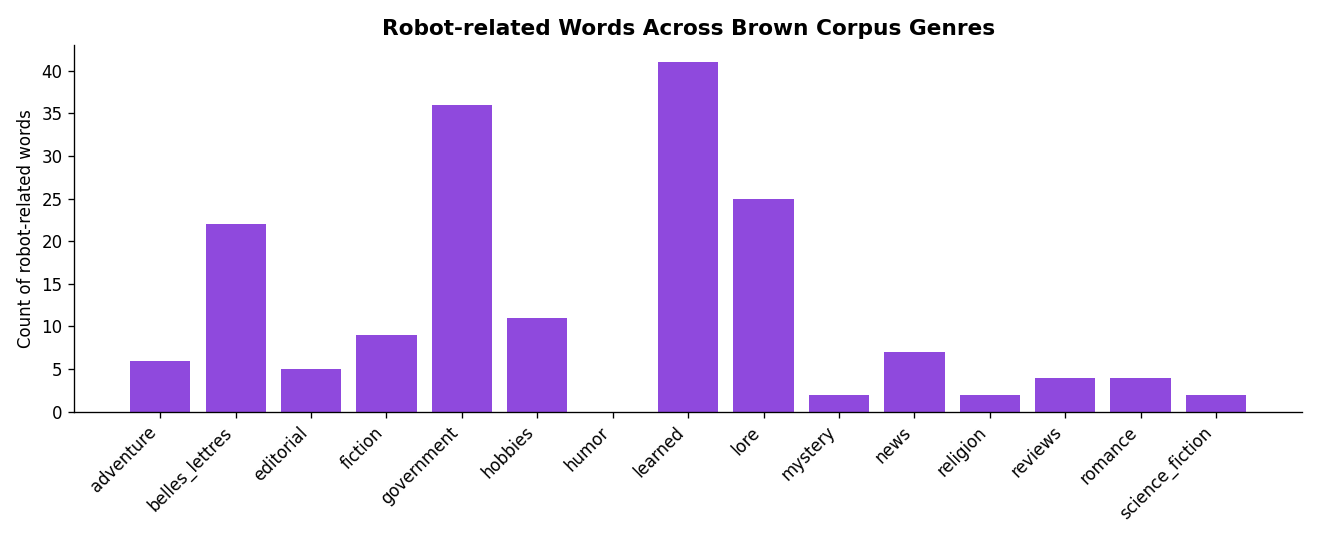
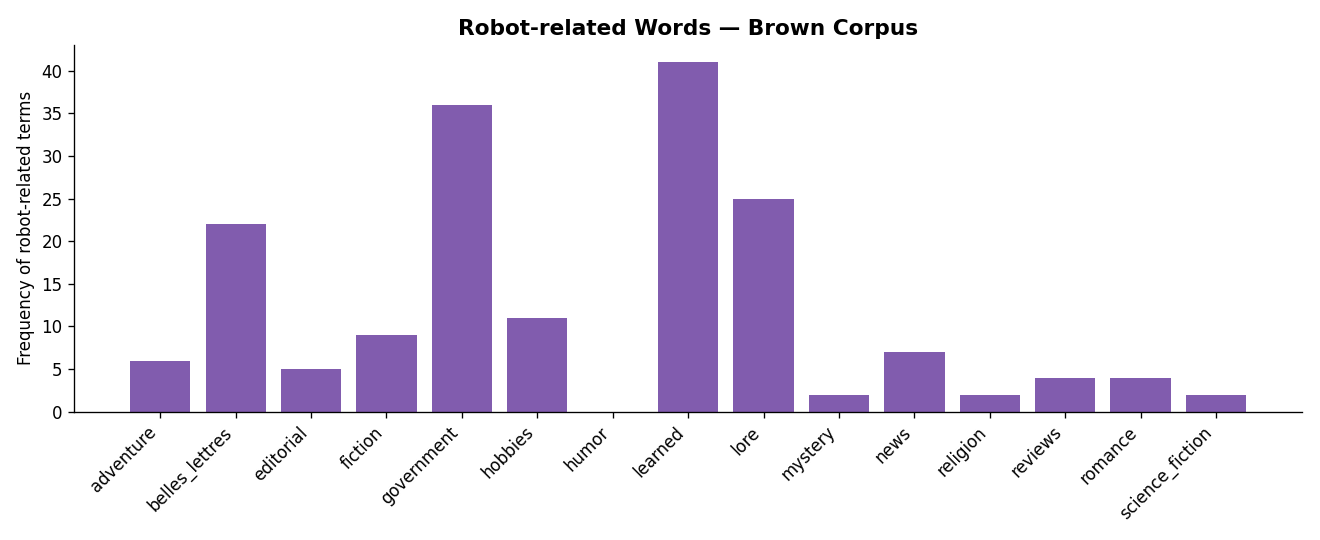
improved the bar chart for part 5

diff --git a/Lab6_ConditionalFreqDist.py b/Lab6_ConditionalFreqDist.py
@@ -172,7 +172,7 @@ def plot_cond_probs(cfd, words, genres, title="Conditional Probability by Genre"
     x = np.arange(n_words)
     width = 0.8 / n_genres
     colours = ['#065A82', '#0D9488', '#B85042', '#F5A623',
-               '#6B3FA0', '#2E7D32', '#795548', '#0288D1']
+               "#6B3FA0", '#2E7D32', '#795548', '#0288D1']
 
     fig, ax = plt.subplots(figsize=(10, 4.5))
     for i, genre in enumerate(genres):
@@ -336,11 +336,11 @@ def plot_robot_counts(cfd, genres, title="Robot-related Words by Genre"):
 
     fig, ax = plt.subplots(figsize=(11, 4.5))
 
-    ax.bar(x, counts, color="#7B29D8", alpha=0.85)
+    ax.bar(x, counts, color="#6B3FA0", alpha=0.85)
 
     ax.set_xticks(x)
     ax.set_xticklabels(genres, rotation=45, ha='right')
-    ax.set_ylabel("Count of robot-related words")
+    ax.set_ylabel("Frequency of robot-related terms")
     ax.set_title(title, fontsize=13, fontweight='bold')
 
     ax.spines['top'].set_visible(False)
@@ -357,7 +357,7 @@ def plot_robot_counts(cfd, genres, title="Robot-related Words by Genre"):
 plot_robot_counts(
     cfd_robot,
     genres=brown.categories(),
-    title="Robot-related Words Across Brown Corpus Genres"
+    title="Robot-related Words — Brown Corpus"
 )
 
 '''